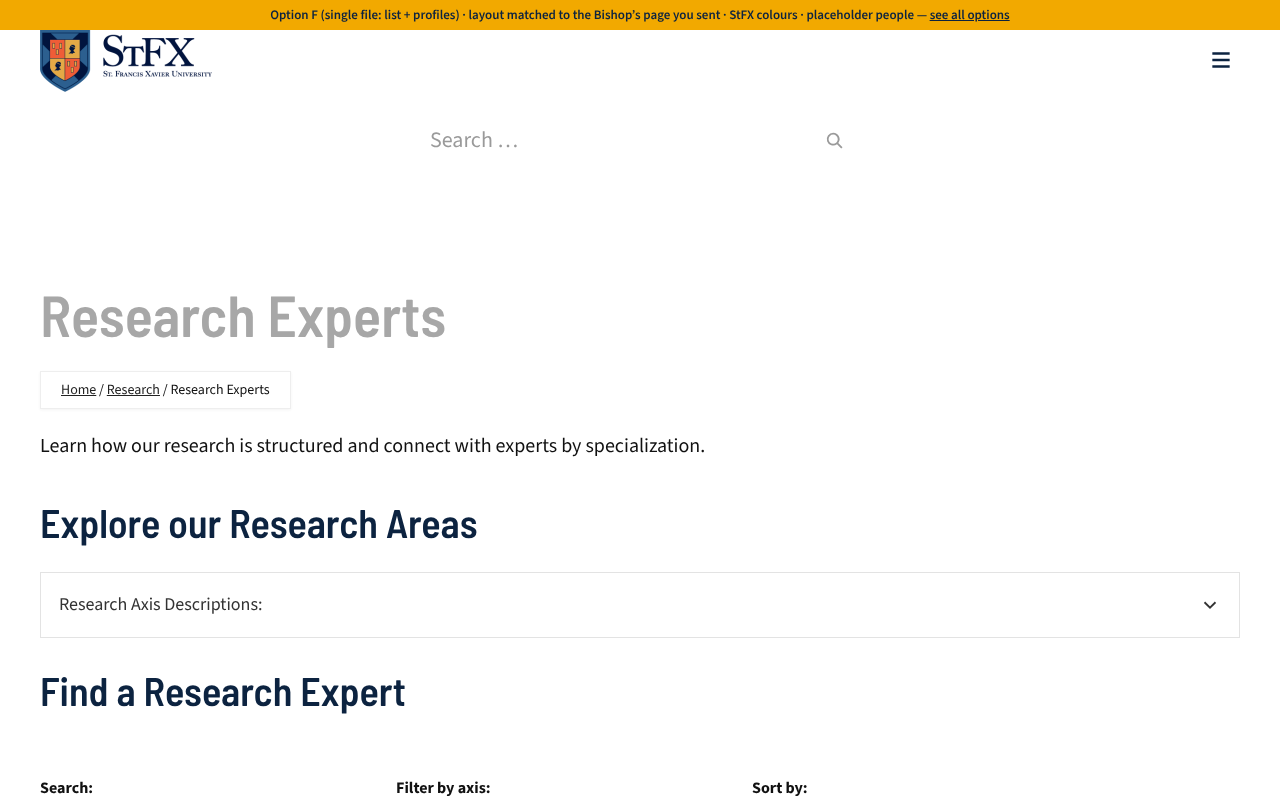
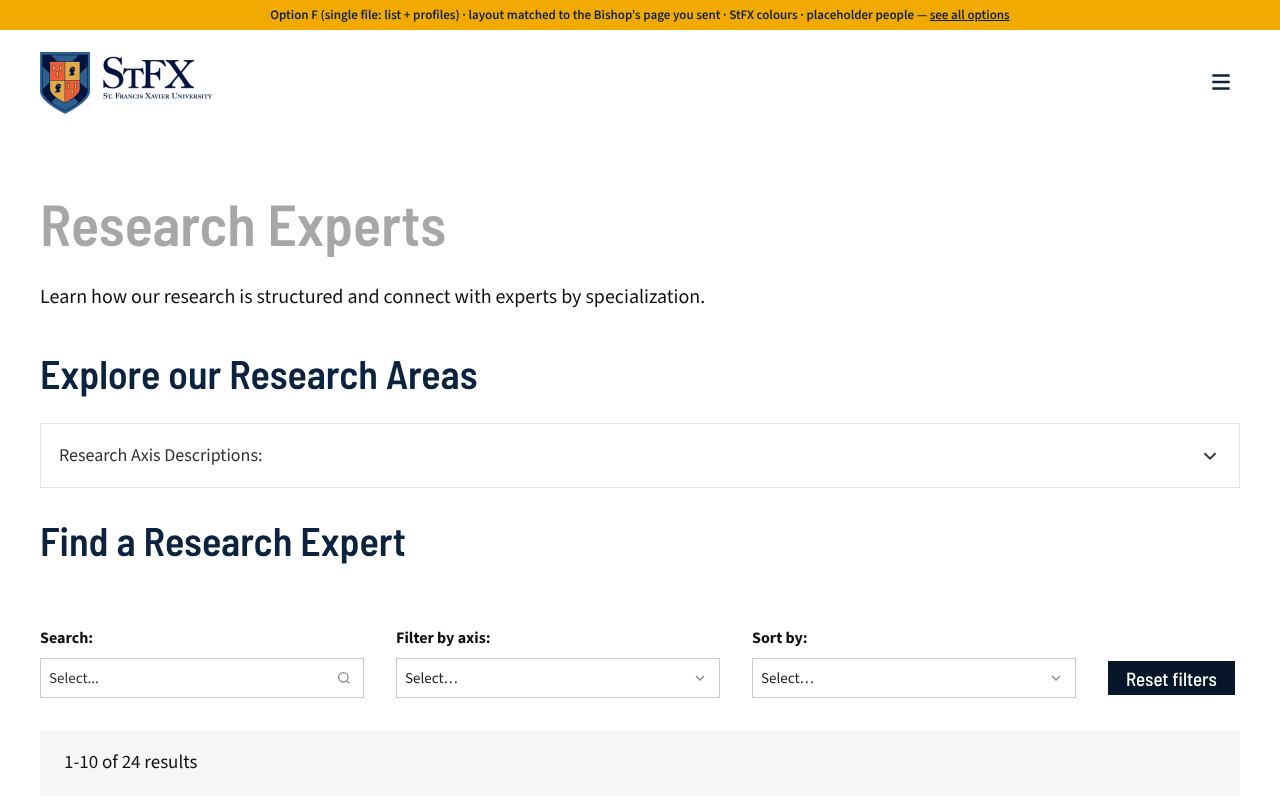
Option F: redesign profile view, remove site search and breadcrumbs; Option A: remove header menu links
Claude-Session: https://claude.ai/code/session_01NjDHNBwM5ceZPN2rQtXe2Y

diff --git a/option-f-classic.html b/option-f-classic.html
@@ -21,7 +21,7 @@
   .mockbar{background:var(--accent);color:var(--brand);font:600 13px/1.4 var(--body);text-align:center;padding:6px 16px}
 
   /* Header */
-  header{padding:22px 0 0}
+  header.wrap{padding-top:22px;padding-bottom:6px}
   header .row{display:flex;align-items:center;justify-content:space-between}
   .logo{display:flex;align-items:center;gap:10px;text-decoration:none;color:var(--brand)}
   .logo .crest{width:38px;height:42px;border-radius:6px 6px 18px 18px;background:var(--brand);color:var(--accent);display:grid;place-items:center;font:700 22px var(--cond)}
@@ -37,7 +37,7 @@
   .sitesearch svg{position:absolute;right:4px;top:50%;transform:translateY(-50%);color:#9a9a9a}
 
   /* Title + breadcrumbs */
-  .pagehead{padding:120px 0 0}
+  .pagehead{padding:72px 0 0}
   .pagehead h1{font:600 clamp(40px,5vw,58px)/1.1 var(--cond);color:var(--grey);margin:0 0 24px}
   .crumbs{display:inline-block;border:1px solid #eee;box-shadow:0 1px 3px rgba(0,0,0,.05);padding:6px 20px;font-size:14px}
   .crumbs a{color:#222}
@@ -104,18 +104,41 @@
   .copy{font-size:12px;color:#888;padding:20px 0 40px}
 
 
-  .back{display:inline-block;margin:24px 0 10px;font:600 16px var(--cond);text-transform:uppercase;color:var(--brand);text-decoration:none}
+  /* ---------- Profile view ---------- */
+  .back{display:inline-flex;align-items:center;gap:8px;margin:48px 0 36px;font:600 16px var(--cond);text-transform:uppercase;letter-spacing:.02em;color:var(--brand);text-decoration:none}
   .back:hover{text-decoration:underline}
-  .prof{display:grid;grid-template-columns:300px 1fr;gap:80px;align-items:start;margin:40px 0 70px}
-  @media (max-width:820px){.prof{grid-template-columns:1fr;gap:28px}}
-  .prof .ph{width:300px}
-  .prof h3{font:600 26px var(--cond);color:var(--brand);margin:40px 0 10px}
-  .prof h3:first-child{margin-top:0}
-  .prof p{margin:0 0 14px}
-  .ph-text{background:repeating-linear-gradient(-45deg,#fafafa,#fafafa 10px,#f1f1f1 10px,#f1f1f1 20px);border:1px dashed #ccc;padding:14px 16px;color:#666;font-size:16px}
-  .side dl{margin:20px 0 0;font-size:16px}.side dt{font-weight:700;margin-top:12px}.side dd{margin:0}
-
-  #profileView{display:none} body.prof #listView{display:none} body.prof #profileView{display:block}
+  .p-hero{display:grid;grid-template-columns:300px 1fr;gap:64px;align-items:center;padding-bottom:48px;border-bottom:1px solid #e6e6e6}
+  .p-dept{font:600 15px var(--cond);text-transform:uppercase;letter-spacing:.1em;color:var(--brand)}
+  .p-name{font:600 clamp(38px,5vw,60px)/1.05 var(--cond);color:var(--ink);margin:8px 0 6px}
+  .p-rank{font-size:20px;color:#555;margin:0 0 20px}
+  .p-tags{display:flex;flex-wrap:wrap;gap:8px;margin-bottom:26px}
+  .p-tags span{font-size:14px;line-height:1.4;background:#f4f4f4;border:1px solid #e3e3e3;border-radius:999px;padding:5px 14px}
+  .p-actions{display:flex;flex-wrap:wrap;gap:12px}
+  .p-btn{display:inline-flex;align-items:center;gap:8px;font:600 16px var(--cond);text-transform:uppercase;letter-spacing:.03em;text-decoration:none;padding:11px 24px;background:var(--brand);color:#fff;border:2px solid var(--brand)}
+  .p-btn:hover{background:var(--brand-dark)}
+  .p-btn.line{background:#fff;color:var(--brand)}
+  .p-btn.line:hover{background:var(--brand);color:#fff}
+  .p-body{display:grid;grid-template-columns:minmax(0,1fr) 330px;gap:72px;align-items:start;margin:52px 0 90px}
+  .p-main section{padding-bottom:34px;margin-bottom:34px;border-bottom:1px solid #eee}
+  .p-main section:last-child{border-bottom:0;margin-bottom:0}
+  .p-main h2{font:600 30px/1.2 var(--cond);color:var(--brand);margin:0 0 14px}
+  .p-main p{margin:0}
+  .p-courses{width:100%;border-collapse:collapse}
+  .p-courses td{padding:10px 0;border-top:1px solid #eee;vertical-align:top}
+  .p-courses tr:first-child td{border-top:0}
+  .p-courses td:first-child{font-weight:700;color:var(--brand);width:120px;white-space:nowrap}
+  .ph-text{background:repeating-linear-gradient(-45deg,#fafafa,#fafafa 10px,#f2f2f2 10px,#f2f2f2 20px);border:1px dashed #cfcfcf;padding:16px 18px;color:#666;font-size:16px;line-height:1.6}
+  .p-card{background:#f6f6f6;border-top:4px solid var(--accent);padding:28px 28px 20px;position:sticky;top:24px}
+  .p-card h3{font:600 22px var(--cond);color:var(--brand);margin:0 0 14px}
+  .p-card h3:not(:first-child){margin-top:26px}
+  .p-card dl{margin:0;font-size:16px;line-height:1.5}
+  .p-card dt{font-size:13px;font-weight:700;text-transform:uppercase;letter-spacing:.06em;color:#666}
+  .p-card dd{margin:2px 0 14px;overflow-wrap:anywhere}
+  .p-card dd a{color:var(--brand)}
+  .p-card .p-tags{margin:0}
+  @media (max-width:980px){.p-body{grid-template-columns:1fr;gap:40px}.p-card{position:static}}
+  @media (max-width:760px){.p-hero{grid-template-columns:1fr;gap:28px;padding-bottom:36px}.p-hero .ph{max-width:260px}.back{margin:28px 0 24px}}
+  #profileView{display:none} body.on-profile #listView{display:none} body.on-profile #profileView{display:block}
 </style>
 </head>
 <body>
@@ -126,14 +149,11 @@
[1 lines of base64/hex data omitted]
     <button class="burger" aria-label="Menu"><svg width="26" height="26" viewBox="0 0 24 24" fill="none" stroke="currentColor" stroke-width="2.4"><path d="M4 6h16M4 12h16M4 18h16"/></svg></button>
   </div>
-  <div class="sitesearch"><input type="search" placeholder="Search …" aria-label="Search site">
-    <svg width="22" height="22" viewBox="0 0 24 24" fill="currentColor"><path d="M10 3a7 7 0 0 1 5.6 11.2l4.6 4.6-1.4 1.4-4.6-4.6A7 7 0 1 1 10 3zm0 2a5 5 0 1 0 0 10 5 5 0 0 0 0-10z"/></svg></div>
 </header>
 
 <main class="wrap" id="listView">
   <section class="pagehead">
     <h1>Research Experts</h1>
-    <nav class="crumbs" aria-label="Breadcrumb"><a href="#">Home</a> / <a href="#">Research</a> / Research Experts</nav>
     <p class="intro">Learn how our research is structured and connect with experts by specialization.</p>
   </section>
 
@@ -162,13 +182,7 @@
   <nav class="pager" id="pager" aria-label="Pagination"></nav>
 </main>
 
-<main class="wrap" id="profileView">
-  <section class="pagehead" style="padding-top:90px">
-    <h1 id="pname"></h1>
-    <nav class="crumbs" aria-label="Breadcrumb"><a href="#">Home</a> / <a href="#">Research</a> / <a href="#experts">Research Experts</a> / <span id="pcrumb"></span></nav>
-  </section>
-  <div id="proot"></div>
-</main>
+<main class="wrap" id="profileView"><div id="proot"></div></main>
 <footer class="wrap">
   <div class="join"><h2>JOIN THE <b>X</b>AVERIAN COMMUNITY</h2><a class="apply" href="#">Apply<br>Now <span>→</span></a></div>
 
@@ -360,24 +374,36 @@ render();
 
 function showProfile(id){
   const e = EXPERTS.find(x=>x.id===id); const full=e.first+' '+e.last;
-  document.getElementById('pname').textContent=full; document.getElementById('pcrumb').textContent=full;
+  const tags = list => list.map(t=>`<span>${esc(t)}</span>`).join('');
   document.getElementById('proot').innerHTML = `
   <a class="back" href="#experts">← Back to Research Experts</a>
-  <div class="prof">
-    <div class="side">
-      <div class="ph" style="background:linear-gradient(180deg,#e9eaec,#d7d9dd)" role="img" aria-label="Headshot placeholder"><span>Photo</span>${GREY_SIL}</div>
-      <dl><dt>Position</dt><dd>${e.rank}</dd><dt>Department</dt><dd>${e.dept}</dd><dt>Email</dt><dd>${e.email}</dd><dt>Phone</dt><dd>902-000-0000</dd><dt>Office</dt><dd>Building, Room 000</dd></dl>
-    </div>
+  <section class="p-hero">
+    <div class="ph" style="background:linear-gradient(180deg,#e9eaec,#d7d9dd)" role="img" aria-label="Headshot placeholder"><span>Photo</span>${GREY_SIL}</div>
     <div>
-      <h3>Biography</h3><div class="ph-text">Biography placeholder. 2–3 paragraphs supplied by the faculty member.</div>
-      <h3>Keywords</h3><p>${e.keywords.join(', ')}</p>
-      <h3>Research Axis</h3><p>${e.areas.map(areaName).join(', ')}</p>
-      <h3>Project(s)</h3><div class="ph-text">Detailed project descriptions placeholder.</div>
-      <h3>Courses Taught</h3><p>${e.courses.map(c=>`<b>${c.code}</b> ${c.title}`).join('<br>')}</p>
-      <h3>Selected Publications</h3><div class="ph-text">Publication list placeholder.</div>
+      <div class="p-dept">${esc(e.dept)} · Faculty of ${esc(e.faculty)}</div>
+      <h1 class="p-name">${esc(full)}</h1>
+      <p class="p-rank">${esc(e.rank)}</p>
+      <div class="p-tags">${tags(e.keywords)}</div>
+      <div class="p-actions">
+        <a class="p-btn" href="mailto:${e.email}">Email ${esc(e.first)}</a>
+        <a class="p-btn line" href="#" onclick="return false">Download CV</a>
+      </div>
     </div>
+  </section>
+  <div class="p-body">
+    <div class="p-main">
+      <section><h2>Biography</h2><div class="ph-text">Biography placeholder. 2–3 paragraphs supplied by the faculty member: background, current research and career highlights.</div></section>
+      <section><h2>Project(s)</h2><p>${esc(e.project)}</p></section>
+      <section><h2>Courses Taught</h2><table class="p-courses">${e.courses.map(c=>`<tr><td>${c.code}</td><td>${esc(c.title)}</td></tr>`).join('')}</table></section>
+      <section><h2>Selected Publications</h2><div class="ph-text">Publication list placeholder (3–5 recent publications with links).</div></section>
+    </div>
+    <aside class="p-card">
+      <h3>Contact</h3>
+      <dl><dt>Email</dt><dd><a href="mailto:${e.email}">${e.email}</a></dd><dt>Phone</dt><dd>902-000-0000</dd><dt>Office</dt><dd>Building, Room 000</dd></dl>
+      <h3>Research Axis</h3>
+      <div class="p-tags">${tags(e.areas.map(areaName))}</div>
+    </aside>
   </div>`;
-
   document.title = full+' · Research Experts';
 }
 /* Page switching. Clicks switch views directly (works even inside previews and
@@ -385,12 +411,12 @@ function showProfile(id){
    the browser allows it, so Back/Forward and shared links also work. */
 let listScroll = 0;
 function view(id){
-  const onProfile = document.body.classList.contains('prof');
+  const onProfile = document.body.classList.contains('on-profile');
   if(id && EXPERTS.some(x=>x.id===id)){
     if(!onProfile) listScroll = scrollY;
-    showProfile(id); document.body.classList.add('prof'); scrollTo(0,0);
+    showProfile(id); document.body.classList.add('on-profile'); scrollTo(0,0);
   } else {
-    document.body.classList.remove('prof'); document.title='Research Experts';
+    document.body.classList.remove('on-profile'); document.title='Research Experts';
     if(onProfile) requestAnimationFrame(()=>scrollTo(0,listScroll));
   }
 }

diff --git a/option-a-showcase.html b/option-a-showcase.html
@@ -243,12 +243,6 @@
 <header class="site">
   <div class="wrap">
     <a class="brand" href="#/"><img class="logo-img" src="stfx-logo.png" alt="St. Francis Xavier University" width="172" height="62"></a>
-    <nav>
-      <a href="index.html" class="on">All options</a>
-      <a href="#/">Research Centres</a>
-      <a href="#/">Funding</a>
-      <a href="#/">Media Relations</a>
-    </nav>
   </div>
 </header>
 
